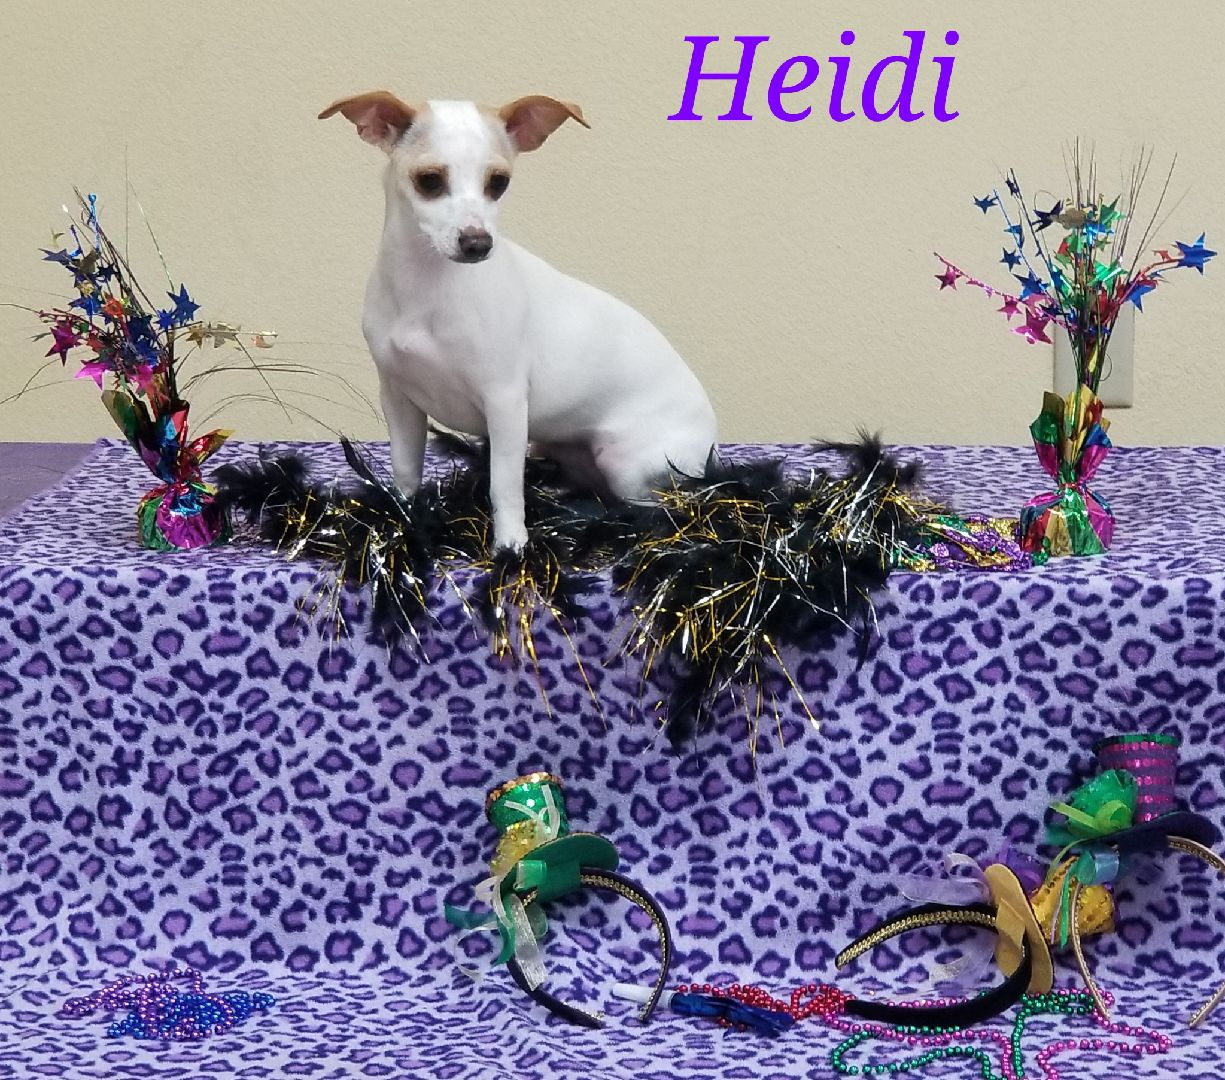
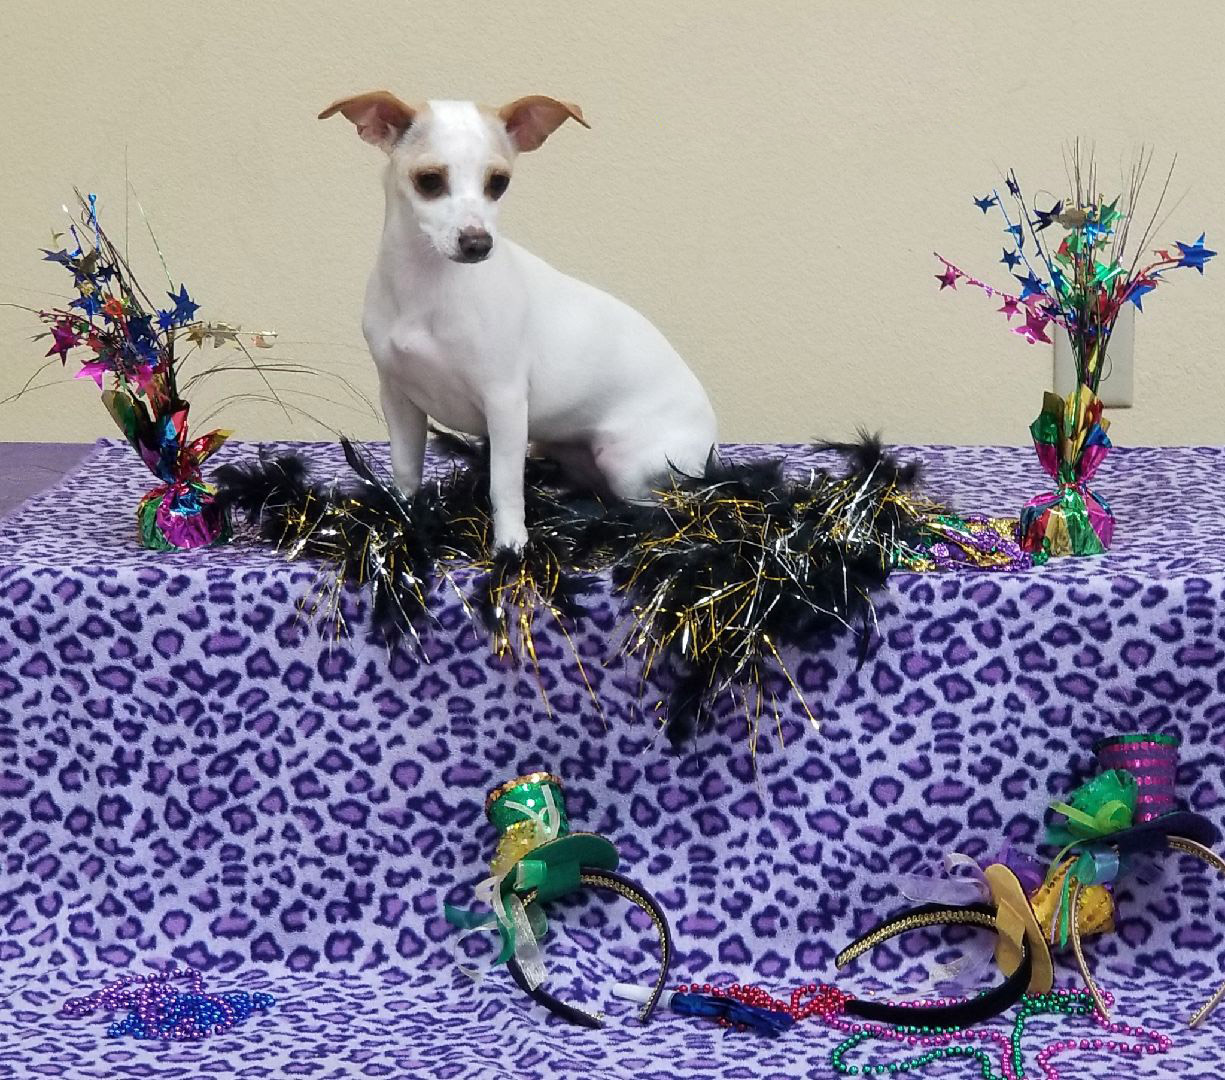
Fixed spotlight terrier image and section styling on front page

Changed region(s): [[0.5273, 0.0306, 0.8065, 0.1222]]

diff --git a/app/templates/index.html b/app/templates/index.html
@@ -20,15 +20,15 @@
 </section>
 <!-- End banner Area -->
 
-<!-- Start home-about Area -->
+<!-- Start Spotlight Terrier -->
 <section class="home-about-area">
     <div class="container-fluid">
         <div class="row align-items-center">
             <div class="col-lg-6 home-about-left no-padding">
-                <img src="../static/img/jr_Heidi.jpg" alt="Spotlight Terrier" style="border-radius: 5px">
+                <img src="../static/img/jr_Heidi.jpg" alt="Spotlight Terrier" style="">
             </div>
-            <div class="col-lg-6 home-about-right no-padding">
-                <h1>
+            <div class="col-lg-6 home-about-right">
+                <h1 class="text-center">
                     Spotlight Terrier
                 </h1>
                 <h3>Heidi</h3>

diff --git a/app/static/css/main.css b/app/static/css/main.css
@@ -756,7 +756,7 @@ td, th {
 }
 
 .no-padding {
-  padding: 0;
+  padding: 0 !important;
 }
 
 .section-bg {
@@ -2800,8 +2800,9 @@ margin-left: -45%;
 }
 
 .home-about-area {
-    margin: 30px;
-    padding: 10px;
+    margin: 0px;
+    padding: 0px;
+    padding: 0px;
 }
 
 .home-about-left img {
@@ -2810,8 +2811,7 @@ margin-left: -45%;
 
 .home-about-right {
   margin-top: -50px;
-  padding-right: 20%;
-  padding-left: 4%;
+  padding: 5% 3% !important;
 }
 
 @media (max-width: 1366px) {
